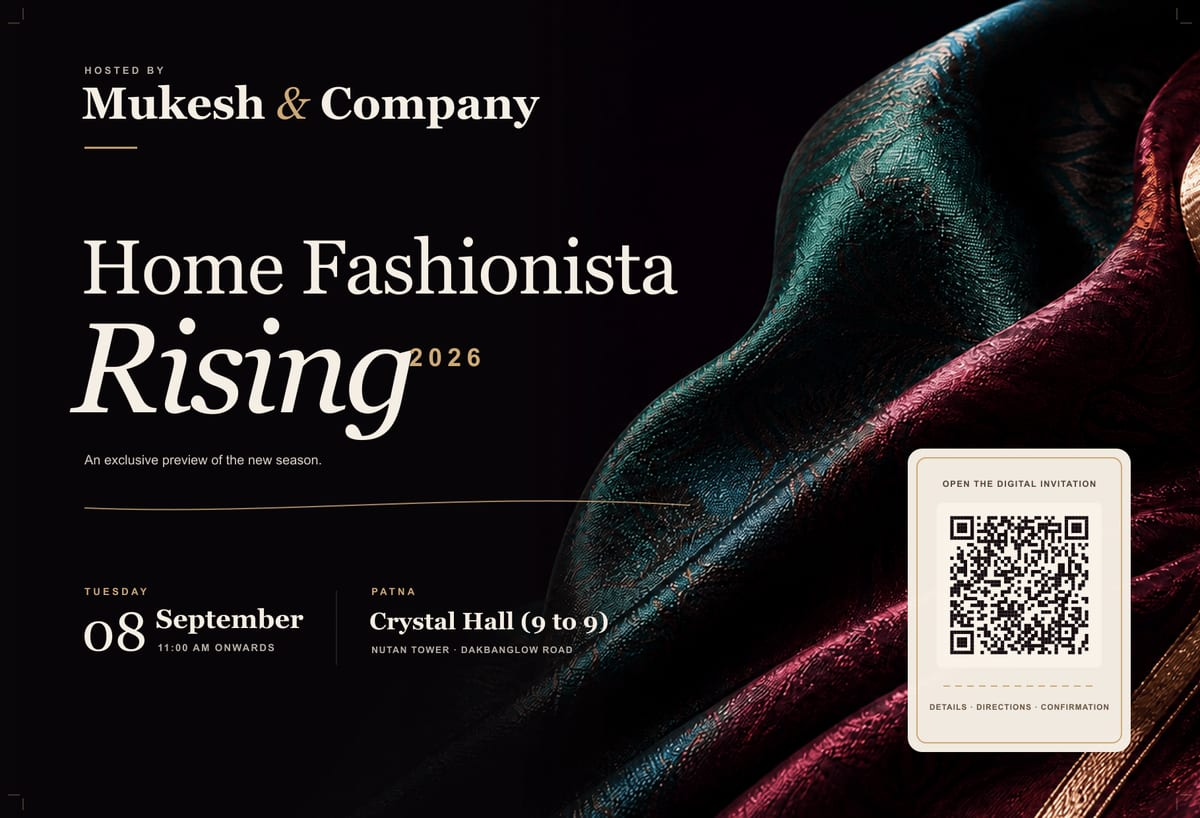
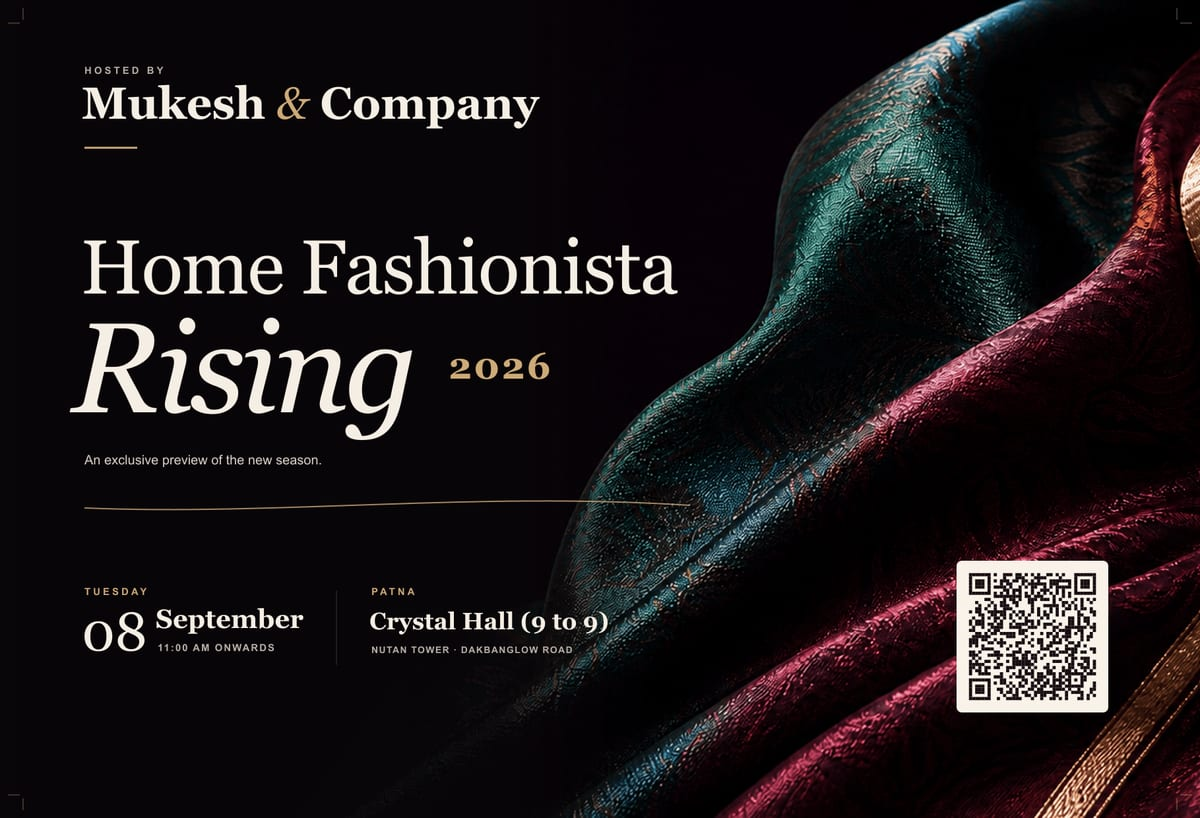
Refine fabric reveal and physical invitation

Changed region(s): [[0.74, 0.5501, 0.9558, 0.9169], [0.3392, 0.4279, 0.4625, 0.489]]

diff --git a/components/FabricScene.tsx b/components/FabricScene.tsx
@@ -40,9 +40,10 @@ export function FabricScene({ onStateChange }: FabricSceneProps) {
           return;
         }
 
+        const mobile = canvas.getBoundingClientRect().width < 720;
         const sourceImage = texture.image as HTMLImageElement;
         const maskCanvas = document.createElement("canvas");
-        maskCanvas.width = 512;
+        maskCanvas.width = mobile ? 768 : 640;
         maskCanvas.height = Math.round((sourceImage.naturalHeight / sourceImage.naturalWidth) * maskCanvas.width);
         const maskContext = maskCanvas.getContext("2d", { willReadFrequently: true });
         let alphaTexture: InstanceType<typeof THREE.CanvasTexture> | undefined;
@@ -72,18 +73,17 @@ export function FabricScene({ onStateChange }: FabricSceneProps) {
         }
 
         const renderer = new THREE.WebGLRenderer({ canvas, alpha: true, antialias: true, powerPreference: "high-performance" });
-        renderer.setPixelRatio(Math.min(window.devicePixelRatio, 1.5));
+        renderer.setPixelRatio(Math.min(window.devicePixelRatio, mobile ? 2 : 1.5));
         renderer.outputColorSpace = THREE.SRGBColorSpace;
         renderer.toneMapping = THREE.ACESFilmicToneMapping;
-        renderer.toneMappingExposure = 0.88;
+        renderer.toneMappingExposure = 1;
 
         const scene = new THREE.Scene();
         const camera = new THREE.PerspectiveCamera(34, 1, 0.1, 40);
         camera.position.set(0, 0, 8.4);
 
-        const mobile = canvas.getBoundingClientRect().width < 720;
-        const columns = mobile ? 24 : 32;
-        const rows = mobile ? 30 : 40;
+        const columns = mobile ? 32 : 36;
+        const rows = mobile ? 42 : 46;
         const geometry = new THREE.PlaneGeometry(8.2, 10.4, columns - 1, rows - 1);
         const basePositions = geometry.attributes.position.array.slice();
         const simulation = createClothSimulation(basePositions, columns, rows);
@@ -91,19 +91,33 @@ export function FabricScene({ onStateChange }: FabricSceneProps) {
         geometry.attributes.position.needsUpdate = true;
 
         texture.colorSpace = THREE.SRGBColorSpace;
-        texture.anisotropy = Math.min(renderer.capabilities.getMaxAnisotropy(), 8);
-        const material = new THREE.MeshStandardMaterial({ map: texture, alphaMap: alphaTexture, alphaTest: 0.14, transparent: Boolean(alphaTexture), roughness: 0.55, metalness: 0, side: THREE.DoubleSide });
+        texture.anisotropy = Math.min(renderer.capabilities.getMaxAnisotropy(), mobile ? 16 : 12);
+        const material = new THREE.MeshStandardMaterial({
+          map: texture,
+          emissive: 0xffffff,
+          emissiveMap: texture,
+          emissiveIntensity: 0.16,
+          alphaMap: alphaTexture,
+          alphaTest: 0.12,
+          transparent: Boolean(alphaTexture),
+          roughness: 0.48,
+          metalness: 0,
+          side: THREE.DoubleSide,
+        });
         const cloth = new THREE.Mesh(geometry, material);
         cloth.rotation.z = -0.055;
         scene.add(cloth);
 
-        scene.add(new THREE.AmbientLight(0x17171b, 1.35));
-        const neutralLight = new THREE.DirectionalLight(0xf1f3f0, 1.75);
+        scene.add(new THREE.AmbientLight(0x211319, 1.42));
+        const neutralLight = new THREE.DirectionalLight(0xf5f1ed, 1.9);
         neutralLight.position.set(-4, 3, 6);
         scene.add(neutralLight);
-        const coolLight = new THREE.DirectionalLight(0x4e8b93, 0.48);
+        const coolLight = new THREE.DirectionalLight(0x4e8b93, 0.24);
         coolLight.position.set(4, -1, 4);
         scene.add(coolLight);
+        const burgundyLight = new THREE.DirectionalLight(0x9a3f52, 0.42);
+        burgundyLight.position.set(5, -3, 4);
+        scene.add(burgundyLight);
 
         let frame = 0;
         let lastTime = performance.now();
@@ -118,8 +132,14 @@ export function FabricScene({ onStateChange }: FabricSceneProps) {
           camera.aspect = rect.width / Math.max(rect.height, 1);
           camera.updateProjectionMatrix();
           const compact = rect.width < 720;
-          cloth.scale.setScalar(compact ? 1.08 : 1.18);
-          cloth.position.x = compact ? 1.15 : 2.2;
+          if (compact) {
+            // Reveal more of the textile's teal-to-burgundy transition on a narrow screen.
+            cloth.scale.set(.46, .86, 1);
+            cloth.position.x = -.25;
+          } else {
+            cloth.scale.set(.98, 1.14, 1);
+            cloth.position.x = .55;
+          }
         };
 
         const render = () => {

diff --git a/app/globals.css b/app/globals.css
@@ -76,7 +76,6 @@ h1, h2, h3, p { text-wrap: pretty; }
 .invited-line,
 .essential-fact span,
 .essential-fact small,
-.scroll-note,
 .section-rule,
 .collection-heading > p,
 .event-city,
@@ -149,12 +148,6 @@ h1, h2, h3, p { text-wrap: pretty; }
 .luxe-button-primary { color: #150b10; background: var(--gold); }
 .luxe-button-quiet { border: 1px solid rgba(245, 238, 228, .32); background: rgba(8, 4, 8, .36); }
 .luxe-button-outline { border: 1px solid rgba(245, 238, 228, .35); background: transparent; }
-.scroll-note { display: none; transition: opacity .5s ease; }
-.fabric-loading .scroll-note,
-.fabric-moving .scroll-note,
-.fabric-title .scroll-note,
-.fabric-details .scroll-note { opacity: 0; }
-
 @keyframes host-cue {
   from { opacity: 0; transform: translateY(9px); }
   to { opacity: 1; transform: translateY(0); }
@@ -277,8 +270,6 @@ select:focus-visible { outline: 2px solid var(--gold); outline-offset: 3px; }
   .essential-fact strong { font-size: 19px; }
   .luxury-actions { grid-column: auto; grid-template-columns: 1.25fr .75fr; align-items: center; padding-left: 24px; border-left: 1px solid var(--line); }
   .luxe-button { min-height: 54px; }
-  .scroll-note { display: flex; position: absolute; z-index: 4; right: max(4vw, 46px); top: 50%; align-items: center; gap: 12px; margin: 0; color: var(--muted); transform: rotate(90deg) translateX(50%); transform-origin: 100% 0; }
-
   .collection-section,
   .event-section,
   .rsvp-section { padding: 110px max(5vw, 50px); }

diff --git a/components/SeasonBookHero.tsx b/components/SeasonBookHero.tsx
@@ -38,8 +38,6 @@ export function SeasonBookHero() {
           <a className="luxe-button luxe-button-quiet" href={event.mapsUrl} target="_blank" rel="noreferrer">Directions <span aria-hidden="true">↗</span></a>
         </nav>
       </div>
-
-      <p className="scroll-note">Scroll to enter <span aria-hidden="true">↓</span></p>
     </section>
   );
 }
